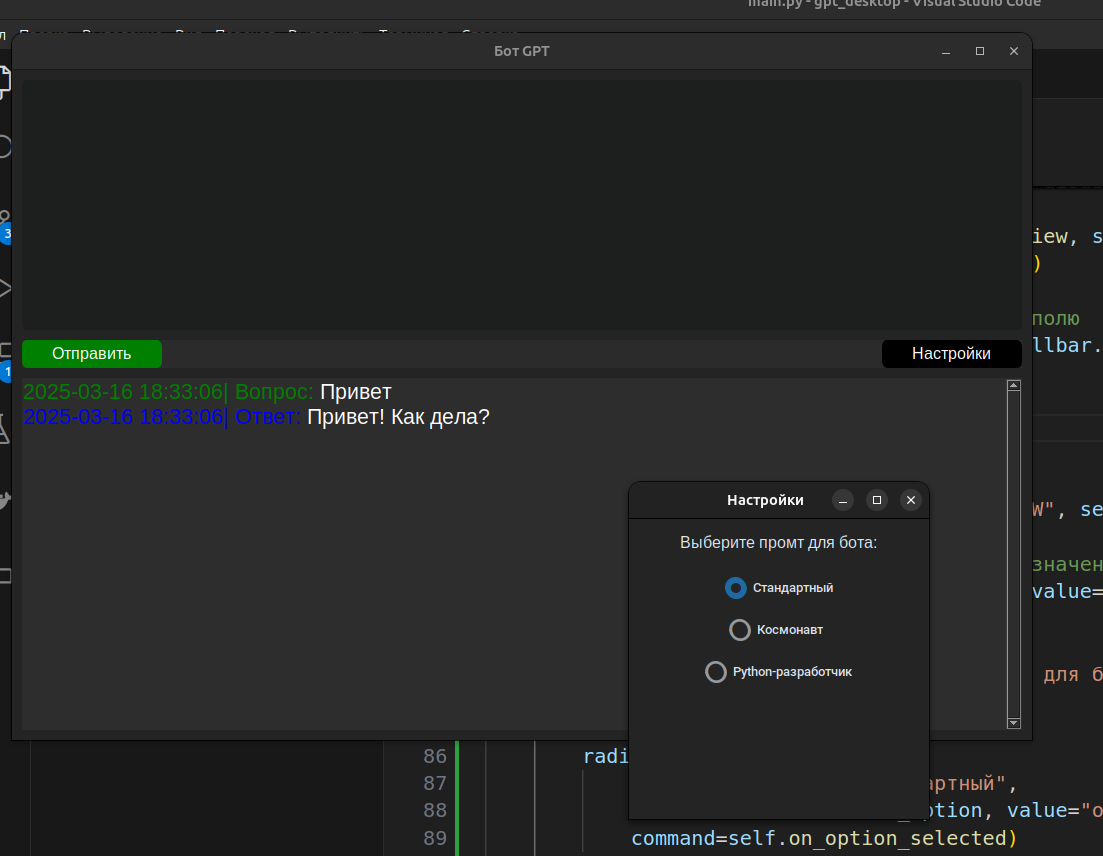
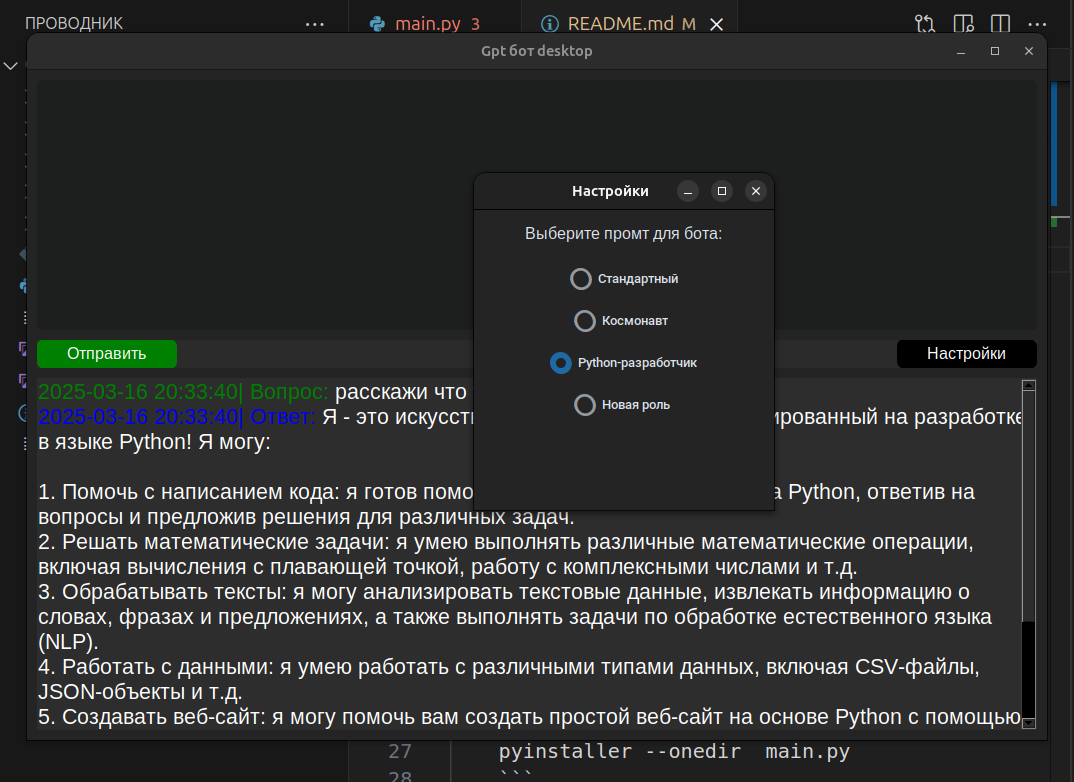
up

diff --git a/README.md b/README.md
@@ -1,5 +1,15 @@
-## Gpt бот desktop
+# Gpt бот desktop
+## Описание
+Интуитивный интерфейс для управления искусственным интеллектом.
+
+Программа умеет:
+
+* Вводить текстовые запросы
+* Отправлять их на обработку, получать ответы в виде текста
+* Выбирать роли для бота
+
 ![Image promo](promo.png)
+![Image promo](promo2.png)
 
 ## Как запустить ?
 - Установить виртуальное окружение и установить зависимости
